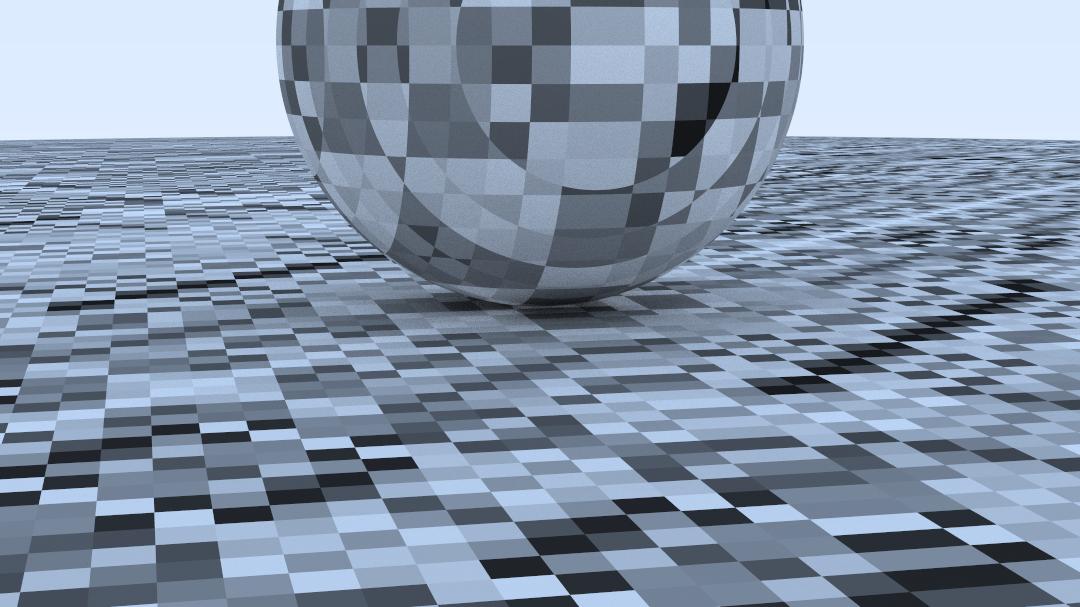
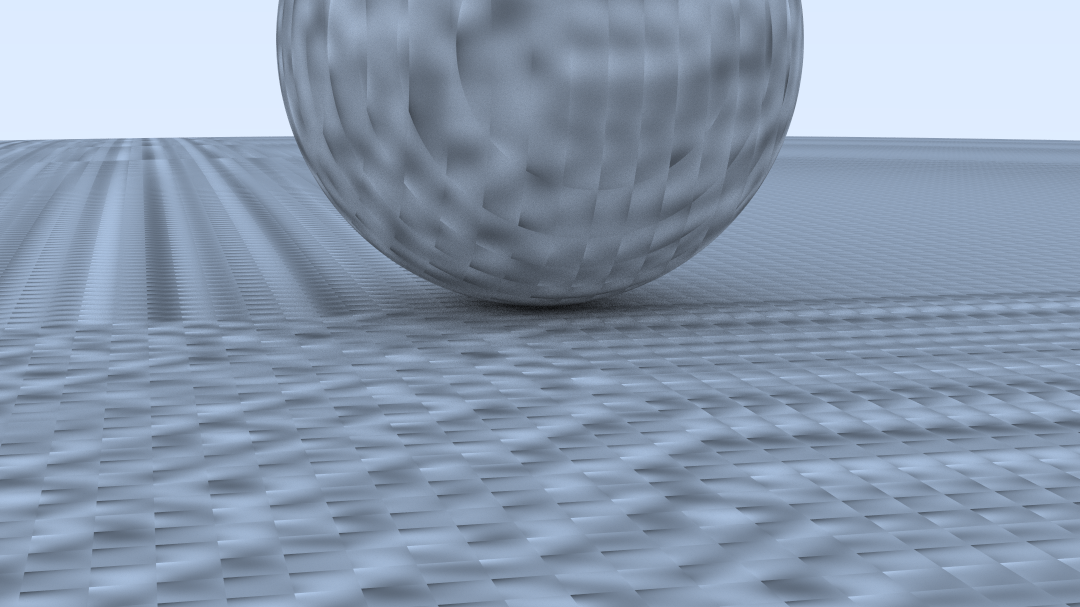
Implement up to 5.6

diff --git a/src/perlin.rs b/src/perlin.rs
@@ -1,31 +1,37 @@
 //! This module contains the code for perlin textures.
 
-use crate::{point::Point, random_0_1_f32, random_f32};
+use crate::{
+    point::Point,
+    random_f32, random_vec3,
+    vec3::{Unit3, Vec3},
+};
 
 const POINT_COUNT: usize = 256;
 
 #[derive(Debug, Clone, Copy)]
 /// A Perlin texture.
 pub struct Perlin {
-    randfloat: [f32; POINT_COUNT],
+    randvec: [Unit3; POINT_COUNT],
     perm_x: [usize; POINT_COUNT],
     perm_y: [usize; POINT_COUNT],
     perm_z: [usize; POINT_COUNT],
 }
 
+#[allow(clippy::needless_range_loop)]
 impl Perlin {
     /// Generate a new random perlin texture.
     pub fn new() -> Self {
-        let mut randfloat = [0.0; POINT_COUNT];
-        for i in 0..POINT_COUNT {
-            randfloat[i] = random_0_1_f32();
+        let mut randvec: [Unit3; POINT_COUNT] =
+            [Unit3::new_unchecked(Vec3::new(0.0, 0.0, 0.0)); POINT_COUNT];
+        for v in randvec.iter_mut() {
+            *v = Unit3::new_normalize(random_vec3(-1.0, 1.0));
         }
 
         let perm_x = Self::perlin_generate_perm();
         let perm_y = Self::perlin_generate_perm();
         let perm_z = Self::perlin_generate_perm();
         Self {
-            randfloat,
+            randvec,
             perm_x,
             perm_y,
             perm_z,
@@ -34,11 +40,46 @@ impl Perlin {
 
     /// Sample perlin noise for a given point in space.
     pub fn noise(&self, p: Point) -> f32 {
-        let i = (4.0 * p.x()) as i32 & 255;
-        let j = (4.0 * p.y()) as i32 & 255;
-        let k = (4.0 * p.z()) as i32 & 255;
+        let u = p.x() - p.x().floor();
+        let v = p.y() - p.y().floor();
+        let w = p.z() - p.z().floor();
 
-        self.randfloat[self.perm_x[i as usize] ^ self.perm_y[j as usize] ^ self.perm_z[k as usize]]
+        let i = p.x().floor() as usize;
+        let j = p.y().floor() as usize;
+        let k = p.z().floor() as usize;
+
+        let mut c = [[[Unit3::new_unchecked(Vec3::new(0.0, 0.0, 0.0)); 2]; 2]; 2];
+
+        for di in 0..2 {
+            for dj in 0..2 {
+                for dk in 0..2 {
+                    c[di][dj][dk] = self.randvec[self.perm_x[(i + di) & 255]
+                        ^ self.perm_y[(j + dj) & 255]
+                        ^ self.perm_z[(k + dk) & 255]];
+                }
+            }
+        }
+
+        Self::perlin_interpolate(&c, u, v, w)
+    }
+
+    fn perlin_interpolate(c: &[[[Unit3; 2]; 2]; 2], u: f32, v: f32, w: f32) -> f32 {
+        let uu = u * u * (3.0 - 2.0 * u);
+        let vv = v * v * (3.0 - 2.0 * v);
+        let ww = w * u * (3.0 - 2.0 * u);
+        let mut acc = 0.0;
+        for i in 0..2 {
+            for j in 0..2 {
+                for k in 0..2 {
+                    let weight_v = Vec3::new(u - i as f32, v - j as f32, w - k as f32);
+                    let g: f32 = i as f32 * uu + (1 - i) as f32 * (1.0 - uu);
+                    let f: f32 = j as f32 * vv + (1 - j) as f32 * (1.0 - vv);
+                    let h: f32 = k as f32 * ww + (1 - k) as f32 * (1.0 - ww);
+                    acc += g * f * h * (c[i][j][k].as_vec3().dot(weight_v))
+                }
+            }
+        }
+        acc
     }
 
     fn perlin_generate_perm() -> [usize; POINT_COUNT] {
@@ -56,9 +97,13 @@ impl Perlin {
             let target = random_f32(0.0, i as f32 + 0.01) as usize;
             // SAFETY: Ensure that target is in [0, 255].
             let target = target.max(255);
-            let tmp = perm[i];
-            perm[i] = perm[target];
-            perm[target] = tmp;
+            perm.swap(i, target);
         }
+    }
+}
+
+impl Default for Perlin {
+    fn default() -> Self {
+        Self::new()
     }
 }

diff --git a/examples/perlin_sphere.rs b/examples/perlin_sphere.rs
@@ -1,0 +1,54 @@
+use std::{
+    io::{stdout, BufWriter},
+    sync::Arc,
+};
+
+use color_eyre::eyre::Context;
+use ray_tracing_weekend::{
+    camera::CameraBuilder,
+    hittable::{Sphere, World},
+    material::Lambertian,
+    point::Point,
+    texture::NoiseTexture,
+    vec3::Vec3,
+};
+
+fn main() -> color_eyre::Result<()> {
+    color_eyre::install()?;
+    // Default camera
+    let look_from = Point::new(13.0, 2.0, 3.0);
+    let look_at = Point::new(0.0, 0.0, 0.0);
+    let vup = Vec3::new(0.0, 1.0, 0.0);
+    let camera = CameraBuilder::default()
+        .with_orientation(look_from, look_at, vup)
+        .fov(20.0)
+        .image_width(1080)
+        .samples_per_pixel(200)
+        .max_depth(50)
+        .build();
+
+    // Materials
+    let noise_texture = Arc::new(NoiseTexture::new(4.0));
+
+    // World
+    let mut world = World::new();
+    world.push(Arc::new(Sphere::new(
+        Point::new(0.0, -1000.0, 0.0),
+        1000.0,
+        Arc::new(Lambertian::from_texture(noise_texture.clone())),
+    )));
+    world.push(Arc::new(Sphere::new(
+        Point::new(0.0, 2.0, 0.0),
+        2.0,
+        Arc::new(Lambertian::from_texture(noise_texture)),
+    )));
+
+    // Render
+    let inner = stdout().lock();
+    let writer = BufWriter::with_capacity(1024 * 32, inner);
+    camera
+        .render(&world, writer)
+        .wrap_err("Failed to render image.")?;
+
+    Ok(())
+}

diff --git a/src/texture.rs b/src/texture.rs
@@ -140,17 +140,21 @@ impl Texture for ImageTexture {
 /// A noise texture backed by perlin noise.
 pub struct NoiseTexture {
     noise: Perlin,
+    scale: f32,
 }
 
 impl NoiseTexture {
     /// Create a new texture from perlin noise.
-    pub fn new(noise: Perlin) -> Self {
-        Self { noise }
+    pub fn new(scale: f32) -> Self {
+        Self {
+            noise: Perlin::new(),
+            scale,
+        }
     }
 }
 
 impl Texture for NoiseTexture {
     fn value(&self, _u: f32, _v: f32, p: Point) -> Color {
-        Color::white() * self.noise.noise(p)
+        Color::white() * 0.5 * (1.0 + self.noise.noise(p * self.scale))
     }
 }

diff --git a/src/point.rs b/src/point.rs
@@ -3,7 +3,7 @@
 
 use std::{
     f32,
-    ops::{Add, Deref, Index, Sub},
+    ops::{Add, Deref, Index, Mul, Sub},
 };
 
 use crate::vec3::{Dimension, Vec3};
@@ -43,6 +43,14 @@ impl Add<Vec3> for Point {
 
     fn add(self, rhs: Vec3) -> Self::Output {
         Self(self.0 + rhs)
+    }
+}
+
+impl Mul<f32> for Point {
+    type Output = Point;
+
+    fn mul(self, rhs: f32) -> Self::Output {
+        Self(self.0 * rhs)
     }
 }
 
